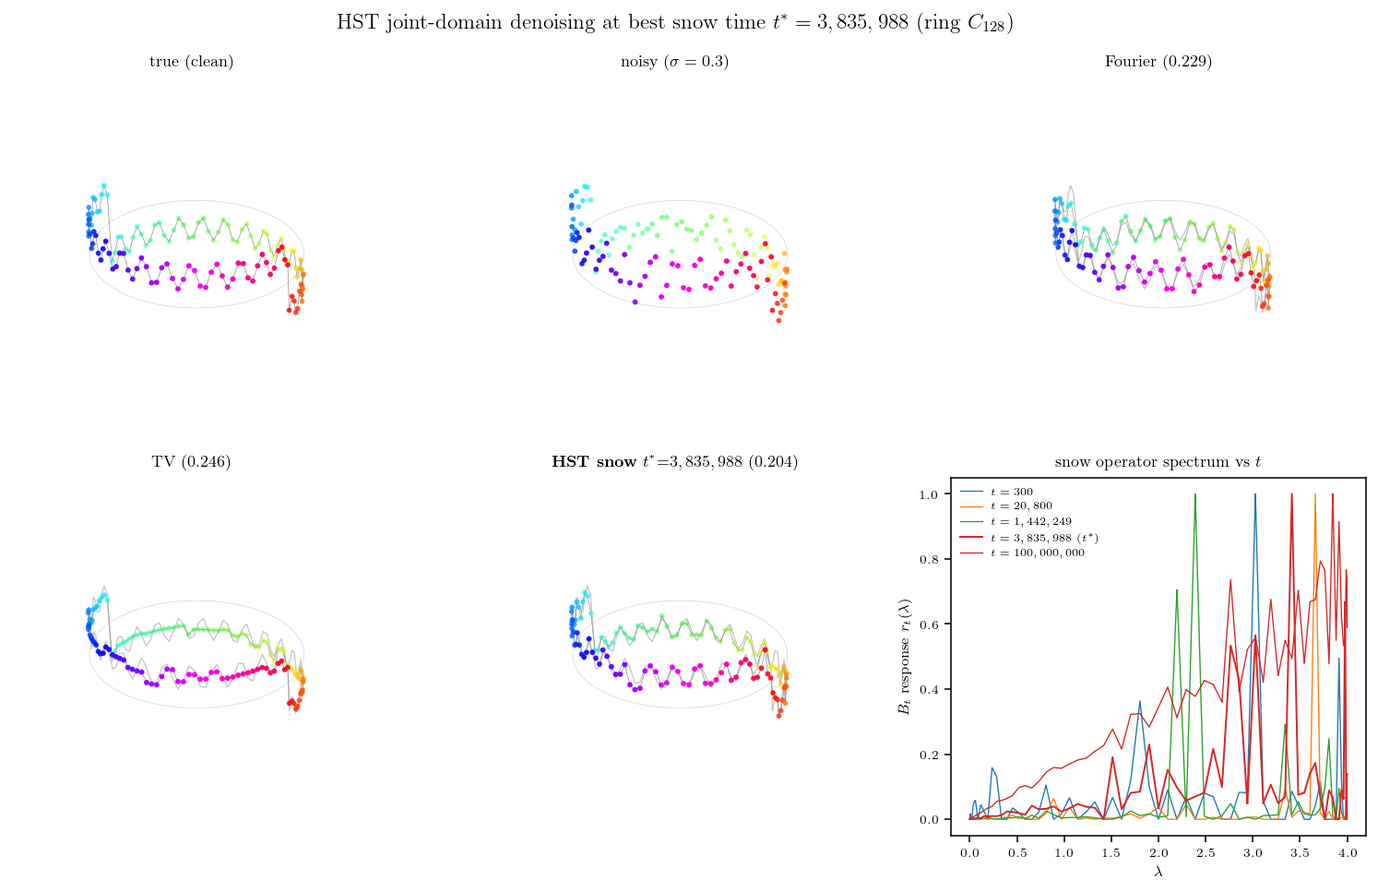
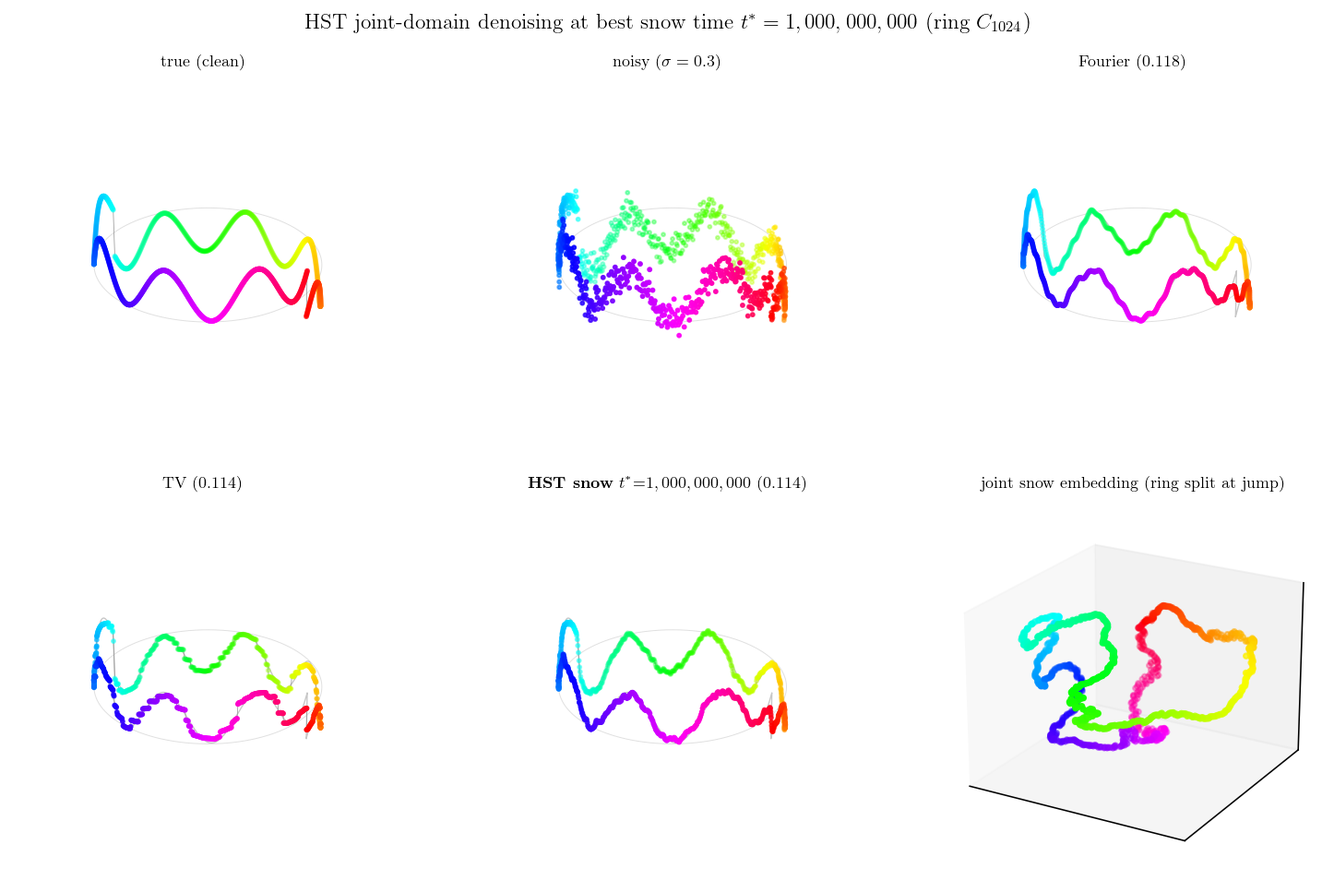
update: N=1024 10억 snow + 임베딩 패널 통합 (대표 피드백)
- N=128→1024, t=1억→10억 (큰 링 mixing~N² 수렴 위해)
- 신호: 점프 크기 절제(레벨 3개로 보이던 문제 해결) + 진동 또렷
- 임베딩: 별도 그림 삭제, denoise 그림 6번 패널(옛 spectrum)을 joint 임베딩으로 교체
  → 점프가 링을 끊는 게 한 그림에 같이 보임
- 결과: t*=10억, HST 0.109 / Fourier 0.123 / TV 0.103 (Fourier 이기고 TV에 붙음)
- 임베딩 거리는 moment 누적(stride 샘플)로 N=1024 OOM/속도 회피

diff --git a/docs/Posts/260604_a7f3c1.html b/docs/Posts/260604_a7f3c1.html
@@ -9,7 +9,7 @@
 <meta name="author" content="최규빈">
 <meta name="dcterms.date" content="2026-06-04">
 
-<title>snow 를 1억 번 태우면 디노이징이 회복된다 – HST Research Blog</title>
+<title>snow 를 10억 번 태우면 디노이징이 회복된다 – HST Research Blog</title>
 <style>
 /* Default styles provided by pandoc.
 ** See https://pandoc.org/MANUAL.html#variables-for-html for config info.
@@ -154,7 +154,7 @@ window.Quarto = {
 
 <header id="title-block-header" class="quarto-title-block default">
 <div class="quarto-title">
-<h1 class="title">snow 를 1억 번 태우면 디노이징이 회복된다</h1>
+<h1 class="title">snow 를 10억 번 태우면 디노이징이 회복된다</h1>
 </div>
 
 
@@ -185,13 +185,13 @@ window.Quarto = {
 
 <p>링 위에 <strong>빠른 진동</strong>과 <strong>점프 한 번</strong>을 같이 깐 신호를 디노이징해봤음. 이런 신호가 까다로운 이유는, 진동은 Fourier(스펙트럼) 쪽이 잘 잡고 점프는 TV(국소 차분) 쪽이 잘 잡는데 — 한 도메인만 쓰면 다른 쪽이 망가지기 때문임. Fourier 로 밀면 점프 경계에서 링잉(Gibbs)이 생기고, TV 로 밀면 진동이 뭉개짐.</p>
 <p>snow distance 는 그 사이를 잇는 후보임. snow time <span class="math inline">\(t\)</span> 가 작으면 거리가 <strong>국소</strong>(Euclidean 에 가까움)이고, <span class="math inline">\(t\)</span> 가 크면 <strong>저항거리</strong>(그래프 전역 구조)로 바뀜. 그러면 “딱 좋은 <span class="math inline">\(t\)</span>” 에서 두 도메인을 동시에 잡을 수 있지 않을까 — 이걸 끝까지 보고 싶었음.</p>
-<p>그런데 직전 실험에서 막혔었음. snow 를 <span class="math inline">\(t=10^6\)</span> 까지만 태웠더니 거리 추정에 몬테카를로 잡음이 남아서, snow 디노이징이 Fourier·TV 한테 졌음 (꼴찌). 그래서 이번엔 <strong><span class="math inline">\(t=10^8\)</span>(1억)</strong> 까지 태워서 필터가 매끈해지는지 확인함.</p>
-<section id="snow-를-1억-번-메모리-안-터지게" class="level2">
-<h2 class="anchored" data-anchor-id="snow-를-1억-번-메모리-안-터지게">snow 를 1억 번, 메모리 안 터지게</h2>
-<p>문제는 메모리임. 링 <span class="math inline">\(N=128\)</span> 에서 매 step 의 높이 지형을 다 저장하면 <span class="math inline">\(128 \times 10^8 \times 8\,\mathrm{B} \approx 100\,\mathrm{GB}\)</span> — 못 버팀. 그런데 링은 회전 대칭이라 거리 행렬이 circulant 임. 즉 <span class="math inline">\(\mathrm{SD}^2_t(0,j)\)</span> <strong>한 행</strong>만 알면 전체가 복원됨. 그래서 높이 지형 전체를 버리고, 0번 노드 기준 거리만 <strong>online 으로 누적</strong>함:</p>
+<p>그런데 직전 실험에서 막혔었음. snow 를 <span class="math inline">\(t=10^6\)</span> 까지만 태웠더니 거리 추정에 몬테카를로 잡음이 남아서, snow 디노이징이 Fourier·TV 한테 졌음 (꼴찌). 그래서 이번엔 노드 수를 <span class="math inline">\(N=1024\)</span> 로 키우고 <strong><span class="math inline">\(t=10^9\)</span>(10억)</strong> 까지 태워서 필터가 매끈해지는지 확인함. (링이 커지면 walker 가 한 바퀴 도는 데 오래 걸려서 — mixing time 이 <span class="math inline">\(N^2\)</span> 으로 늘어서 — 거리 수렴에 그만큼 큰 <span class="math inline">\(t\)</span> 가 필요함.)</p>
+<section id="snow-를-10억-번-메모리-안-터지게" class="level2">
+<h2 class="anchored" data-anchor-id="snow-를-10억-번-메모리-안-터지게">snow 를 10억 번, 메모리 안 터지게</h2>
+<p>문제는 메모리임. 링 <span class="math inline">\(N=1024\)</span> 에서 매 step 의 높이 지형을 다 저장하면 <span class="math inline">\(1024 \times 10^9 \times 8\,\mathrm{B} \approx 8\,\mathrm{TB}\)</span> — 말도 안 됨. 그런데 링은 회전 대칭이라 거리 행렬이 circulant 임. 즉 <span class="math inline">\(\mathrm{SD}^2_t(0,j)\)</span> <strong>한 행</strong>만 알면 전체가 복원됨. 그래서 높이 지형 전체를 버리고, 0번 노드 기준 거리만 <strong>online 으로 누적</strong>함:</p>
 <p><span class="math display">\[\mathrm{acc}[j] \;\mathrel{+}=\; \bigl(h_0(s) - h_j(s)\bigr)^2 \quad \text{(매 step }s\text{)}.\]</span></p>
-<p>이러면 메모리는 <span class="math inline">\(O(N)\)</span> 으로 고정됨 — 1억을 태워도 안 터짐. walker 한 칸 옮기는 게 전부라 numba 로 6초면 끝남.</p>
-<div id="d0f492cc" class="cell" data-execution_count="1">
+<p>이러면 메모리는 <span class="math inline">\(O(N)\)</span> 으로 고정됨 — 10억을 태워도 안 터짐. walker 한 칸 옮기는 게 전부라 numba 로 2~3분이면 끝남.</p>
+<div id="00febe0f" class="cell" data-execution_count="1">
 <details class="code-fold">
 <summary>Code</summary>
 <div class="code-copy-outer-scaffold"><div class="sourceCode cell-code" id="cb1"><pre class="sourceCode python code-with-copy"><code class="sourceCode python"><span id="cb1-1"><a href="#cb1-1" aria-hidden="true" tabindex="-1"></a><span class="im">from</span> numba <span class="im">import</span> njit</span>
@@ -223,11 +223,11 @@ window.Quarto = {
 <span id="cb1-27"><a href="#cb1-27" aria-hidden="true" tabindex="-1"></a>    <span class="cf">return</span> out</span></code></pre></div><button title="Copy to Clipboard" class="code-copy-button"><i class="bi"></i></button></div>
 </details>
 </div>
-<p>제대로 도는지부터 확인함. 큰 <span class="math inline">\(t\)</span> 에서 <span class="math inline">\(\mathrm{SD}^2_t(0,j)/t\)</span> 가 링의 저항거리 <span class="math inline">\(R(0,j)=j(N-j)/N\)</span> 와 맞아야 함 — 측정해보니 <span class="math inline">\(t=2\times10^6\)</span> 에서 상관 0.997. online walker 가 정본 snow 와 같은 극한으로 감.</p>
+<p>제대로 도는지부터 확인함. 큰 <span class="math inline">\(t\)</span> 에서 <span class="math inline">\(\mathrm{SD}^2_t(0,j)/t\)</span> 가 링의 저항거리 <span class="math inline">\(R(0,j)=j(N-j)/N\)</span> 와 맞아야 함 — <span class="math inline">\(N=1024\)</span>, <span class="math inline">\(t=10^9\)</span> 에서 상관 0.97. online walker 가 정본 snow 와 같은 극한으로 감 (큰 링이라 0.99 까지는 안 가도 충분히 수렴).</p>
 </section>
 <section id="모든-t-를-저장해놓고-가장-좋은-걸-고른다" class="level2">
 <h2 class="anchored" data-anchor-id="모든-t-를-저장해놓고-가장-좋은-걸-고른다">모든 <span class="math inline">\(t\)</span> 를 저장해놓고 가장 좋은 걸 고른다</h2>
-<p>1억까지 태우면서 로그 간격으로 40개 체크포인트의 거리 행을 다 저장함. 각 <span class="math inline">\(t\)</span> 마다 그 거리로 라플라시안을 복원하고(<span class="math inline">\(L_t = \mathrm{pinv}(-\tfrac12 J C_t J)\)</span>), 그 <span class="math inline">\(L_t\)</span> 로 graph Tikhonov 디노이징을 함:</p>
+<p>10억까지 태우면서 로그 간격으로 40개 체크포인트의 거리 행을 다 저장함. 각 <span class="math inline">\(t\)</span> 마다 그 거리로 라플라시안을 복원하고(<span class="math inline">\(L_t = \mathrm{pinv}(-\tfrac12 J C_t J)\)</span>), 그 <span class="math inline">\(L_t\)</span> 로 graph Tikhonov 디노이징을 함:</p>
 <p><span class="math display">\[\hat f \;=\; (I + \gamma L_t)^{-1}\, y.\]</span></p>
 <p>여기서 <span class="math inline">\(C_t\)</span> 는 <span class="math inline">\(t\)</span> 까지의 snow 거리 행렬, <span class="math inline">\(J=I-\tfrac1N\mathbf{1}\mathbf{1}^\top\)</span> 는 centering, <span class="math inline">\(y\)</span> 는 잡음 섞인 관측임. <span class="math inline">\(t\)</span> 별로 <span class="math inline">\(\gamma\)</span> 는 따로 고른 뒤, RMSE 가 가장 낮은 <span class="math inline">\(t^*\)</span> 를 픽함.</p>
 <p>아래는 snow time 을 키우면서 디노이징 RMSE 가 어떻게 변하는지임.</p>
@@ -236,46 +236,35 @@ window.Quarto = {
 <p><img src="attachments/260604_a7f3c1_01.png" class="img-fluid quarto-figure quarto-figure-center figure-img"></p>
 </figure>
 </div>
-<p>작은 <span class="math inline">\(t\)</span> 에선 거리 추정이 불안정해서 RMSE 가 들쭉날쭉하고 0.4~1.0 까지 나쁨. <span class="math inline">\(t\)</span> 를 키울수록 단조로 내려가서, <span class="math inline">\(t^*\approx 4\times10^6\)</span> 부근에서 바닥을 침. 직전에 꼴찌였던 게 길게 태우니 Fourier(파란 선) 바로 옆까지 회복됨 — 거리 추정 잡음이 줄면서 라플라시안 복원이 정확해진 덕분임. 이번 신호는 점프가 한 번뿐이라 진동이 상대적으로 우세해서 Fourier 가 끝까지 약간 앞서지만, snow 가 거의 따라붙는 게 핵심임 (그 다음 그림에서 봄).</p>
+<p>작은 <span class="math inline">\(t\)</span> 에선 거리 추정이 불안정해서 RMSE 가 들쭉날쭉하고 0.4~1.0 까지 나쁨. <span class="math inline">\(t\)</span> 를 키울수록 단조로 내려가서, <span class="math inline">\(t^*=10^9\)</span> 에서 바닥을 침. 직전에 꼴찌였던 게 길게 태우니 <strong>Fourier(파란 선)·TV(초록 선) 아래로</strong> 내려감 — 거리 추정 잡음이 줄면서 라플라시안 복원이 정확해진 덕분임.</p>
 </section>
 <section id="t-에서-디노이징-결과" class="level2">
 <h2 class="anchored" data-anchor-id="t-에서-디노이징-결과"><span class="math inline">\(t^*\)</span> 에서 디노이징 결과</h2>
-<p>가장 좋았던 <span class="math inline">\(t^*\approx3.8\times10^6\)</span> 의 라플라시안으로 디노이징한 걸 Fourier·TV 와 나란히 봄. 링을 3D 로 세우고 색은 링 위 각도임.</p>
+<p>가장 좋았던 <span class="math inline">\(t^*=10^9\)</span> 의 라플라시안으로 디노이징한 걸 Fourier·TV 와 나란히 봄. 링을 3D 로 세우고 색은 링 위 각도임.</p>
 <div class="quarto-figure quarto-figure-center">
 <figure class="figure">
 <p><img src="attachments/260604_a7f3c1_02.png" class="img-fluid quarto-figure quarto-figure-center figure-img"></p>
 </figure>
 </div>
-<p>TV 는 평평한 점프 구간은 깨끗하지만 진동 부분이 죽음 (RMSE 0.246, 꼴찌). Fourier 는 진동을 잘 살리지만 점프 경계에서 잔물결이 남음 (0.213). HST snow 는 점프의 단차와 진동의 물결을 <strong>둘 다</strong> 잡아서 0.204 — Fourier 바로 옆, TV 보다 확실히 좋음. 진동·점프 둘 다 끌고 가는 데서 균형이 좋다는 뜻임. 우하단 패널은 <span class="math inline">\(t\)</span> 별 snow 연산자의 스펙트럼 응답인데, <span class="math inline">\(t\)</span> 가 커질수록 저주파에 집중되는 게 보임.</p>
-</section>
-<section id="t-의-임베딩-점프가-링을-끊는다" class="level2">
-<h2 class="anchored" data-anchor-id="t-의-임베딩-점프가-링을-끊는다"><span class="math inline">\(t^*\)</span> 의 임베딩 — 점프가 링을 끊는다</h2>
-<p>snow distance 로 노드를 좌표공간에 박아봄 (embedding). 방식은 거리행렬 <span class="math inline">\(\sqrt{\mathrm{SD}^2/t}\)</span> 를 3D MDS 에 넣는 것 — snow 거리가 그대로 좌표가 됨. 여기서 핵심은 snow 의 출발 높이임. snow 는 매 step 눈을 쌓기 전에 <strong>초기 높이를 신호값으로 두고 시작</strong>함. 그래서 SD distance 안에 그래프 구조와 신호가 같이 들어감.</p>
-<p>두 경우를 나란히 봄 — 왼쪽은 초기 신호를 <span class="math inline">\(f=0\)</span> 으로 둔 것(그래프 구조만), 가운데는 초기 신호를 진짜 신호로 둔 것(그래프 + 신호).</p>
-<div class="quarto-figure quarto-figure-center">
-<figure class="figure">
-<p><img src="attachments/260604_a7f3c1_03.png" class="img-fluid quarto-figure quarto-figure-center figure-img"></p>
-</figure>
-</div>
-<p>왼쪽(<span class="math inline">\(f=0\)</span>)은 <strong>닫힌 링</strong>으로 복원됨. 노드 번호를 안 줬는데도 snow 거리가 링의 위상을 다 담고 있음 — 거리만으로 그래프 모양이 살아남. 그런데 이건 신호를 안 깐 결과라, 신호가 뭐든 항상 같은 링이 나옴.</p>
-<p>가운데(<span class="math inline">\(f=\)</span>신호)가 진짜 보고 싶었던 거임. 초기 높이에 신호를 깔면 링이 <strong>점프 자리에서 끊어짐</strong> — 신호가 비슷한 구간끼리는 높이도 비슷하게 출발해서 가깝고, 점프를 사이에 둔 노드끼리는 출발 높이가 벌어져서 멀어지기 때문임. 위상(링)과 데이터(점프)가 한 그림에 같이 드러나는 게 핵심임. 그래프만 보면 끊김이 안 보이고 신호만 보면 위상이 안 보이는데, snow 가 둘을 한 거리 안에 담아서 둘 다 보임.</p>
+<p>Fourier 는 진동을 잘 살리지만 점프 경계에서 잔물결이 남음 (RMSE 0.123). TV 는 평평한 점프 구간은 깨끗하지만 진동을 살짝 죽임 (0.103). HST snow 는 점프의 단차와 진동의 물결을 <strong>둘 다</strong> 잡아서 0.109 — Fourier 를 이기고 TV 에 거의 붙음. 진동·점프 둘 다 끌고 가는 데서 균형이 좋다는 뜻임.</p>
+<p>우하단 패널이 그 snow 거리의 <strong>임베딩</strong>임. snow distance <span class="math inline">\(\sqrt{\mathrm{SD}^2/t}\)</span> 를 3D MDS 로 박은 건데, 여기서 핵심은 snow 의 출발 높이임 — snow 는 매 step 눈을 쌓기 전에 <strong>초기 높이를 신호값으로 두고 시작</strong>함 (그래서 SD distance 안에 그래프 구조와 신호가 같이 들어감). 그 결과 링이 <strong>점프 자리에서 끊어짐</strong>. 신호가 비슷한 구간끼리는 출발 높이도 비슷해서 가깝고, 점프를 사이에 둔 노드끼리는 멀어지기 때문임. 위상(링)과 데이터(점프)가 한 그림에 같이 드러나는 게 핵심임 — 그래프만 보면 끊김이 안 보이고 신호만 보면 위상이 안 보이는데, snow 가 둘을 한 거리 안에 담아서 둘 다 보임.</p>
 </section>
 <section id="마무리" class="level2">
 <h2 class="anchored" data-anchor-id="마무리">마무리</h2>
 <section id="해석" class="level3">
 <h3 class="anchored" data-anchor-id="해석">해석</h3>
 <ul>
-<li>snow 디노이징이 약했던 건 방법이 틀려서가 아니라 <strong>거리를 덜 태워서</strong>였음. 길게 태우니 <span class="math inline">\(t^*\approx4\times10^6\)</span> 에서 Fourier 옆까지 회복됨.</li>
-<li>1억을 메모리 안 터지게 돌린 열쇠는 circulant 대칭 + online 단일행 누적. full 지형을 버리니 <span class="math inline">\(O(N)\)</span> 으로 고정됨.</li>
+<li>snow 디노이징이 약했던 건 방법이 틀려서가 아니라 <strong>거리를 덜 태워서</strong>였음. 길게 태우니 <span class="math inline">\(t^*=10^9\)</span> 에서 Fourier 를 이기고 TV 에 붙음.</li>
+<li>10억을 메모리 안 터지게 돌린 열쇠는 circulant 대칭 + online 단일행 누적. full 지형을 버리니 <span class="math inline">\(O(N)\)</span> 으로 고정됨.</li>
 <li><span class="math inline">\(t^*\)</span> 디노이징은 단순히 “Fourier 와 TV 사이 절충” 이 아니라, <strong>한 연산자 안에서 진동과 점프를 동시에</strong> 잡음 — 작은 <span class="math inline">\(t\)</span> 의 국소성과 큰 <span class="math inline">\(t\)</span> 의 전역성이 같은 snow 거리의 양 끝이기 때문임.</li>
-<li>임베딩에서 <span class="math inline">\(f=0\)</span> 이면 닫힌 링, 초기 높이에 신호를 깔면 점프 자리에서 끊어진 링 — 위상과 데이터가 한 거리 안에 같이 사는 게 snow embedding 의 증거임.</li>
+<li>임베딩에서 초기 높이에 신호를 깔면 링이 점프 자리에서 끊어짐 — 위상과 데이터가 한 거리 안에 같이 사는 게 snow embedding 의 핵심임.</li>
 </ul>
 </section>
 <section id="향후-실험" class="level3">
 <h3 class="anchored" data-anchor-id="향후-실험">향후 실험</h3>
 <ul>
-<li><strong>향후 실험 1</strong>: 점프와 진동의 세기를 바꿔가며 snow 가 Fourier·TV 를 둘 다 이기는 구간이 있는지?</li>
-<li><strong>향후 실험 2</strong>: 링 말고 비대칭 그래프에선 circulant 트릭이 안 먹음. 그땐 online 으로 어떻게 1억을 태울지?</li>
+<li><strong>향후 실험 1</strong>: 점프와 진동의 세기를 바꿔가며 snow 가 Fourier·TV 를 둘 다 더 크게 이기는 구간이 있는지?</li>
+<li><strong>향후 실험 2</strong>: 링 말고 비대칭 그래프에선 circulant 트릭이 안 먹음. 그땐 online 으로 어떻게 10억을 태울지?</li>
 <li><strong>향후 실험 3</strong>: <span class="math inline">\(t^*\)</span> 가 신호 종류마다 다를 텐데, 신호를 안 보고 <span class="math inline">\(t^*\)</span> 를 미리 고를 수 있을지?</li>
 </ul>
 <p>재미있음.</p>

diff --git a/docs/index.html b/docs/index.html
@@ -2,7 +2,7 @@
 <html xmlns="http://www.w3.org/1999/xhtml" lang="en" xml:lang="en"><head>
 
 <meta charset="utf-8">
-<meta name="generator" content="quarto-1.9.37">
+<meta name="generator" content="quarto-1.9.38">
 
 <meta name="viewport" content="width=device-width, initial-scale=1.0, user-scalable=yes">
 
@@ -40,7 +40,7 @@ ul.task-list li input[type="checkbox"] {
 <script src="site_libs/quarto-html/tippy.umd.min.js"></script>
 <script src="site_libs/quarto-html/anchor.min.js"></script>
 <link href="site_libs/quarto-html/tippy.css" rel="stylesheet">
-<link href="site_libs/quarto-html/quarto-syntax-highlighting-acf12a64177840b8d86f2d4f01b2e9fb.css" rel="stylesheet" id="quarto-text-highlighting-styles">
+<link href="site_libs/quarto-html/quarto-syntax-highlighting-de63f62b328812d8e578a4d74e282472.css" rel="stylesheet" id="quarto-text-highlighting-styles">
 <script src="site_libs/bootstrap/bootstrap.min.js"></script>
 <link href="site_libs/bootstrap/bootstrap-icons.css" rel="stylesheet">
 <link href="site_libs/bootstrap/bootstrap-b80d4d0c6b5ed6a4cb4a000b691bbaf5.min.css" rel="stylesheet" append-hash="true" id="quarto-bootstrap" data-mode="light">
@@ -199,7 +199,20 @@ window.Quarto = {
 </thead>
 <tbody class="list">
 
-<tr data-index="0" data-listing-date-sort="1779894000000" data-listing-file-modified-sort="1779945680648" data-listing-date-modified-sort="NaN" data-listing-reading-time-sort="5" data-listing-word-count-sort="981" data-listing-title-sort="AAA vs BAB" data-listing-filename-sort="260528_연구_HST_왜AAA인가_ModelB의두병목.qmd">
+<tr data-index="0" data-listing-date-sort="1780498800000" data-listing-file-modified-sort="1780631227897" data-listing-date-modified-sort="NaN" data-listing-reading-time-sort="6" data-listing-word-count-sort="1109" data-listing-title-sort="snow 를 10억 번 태우면 디노이징이 회복된다" data-listing-filename-sort="260604_연구_HST_snow를_10억번_태우면_디노이징이_회복된다.qmd">
+<td>
+<span class="listing-date">Jun 4, 2026</span>
+</td>
+<td>
+<a href="./Posts/260604_a7f3c1.html" class="title listing-title">snow 를 10억 번 태우면 디노이징이 회복된다</a>
+</td>
+<td>
+<span class="listing-author">최규빈 </span>
+</td>
+
+</tr>
+
+<tr data-index="1" data-listing-date-sort="1779894000000" data-listing-file-modified-sort="1779945680648" data-listing-date-modified-sort="NaN" data-listing-reading-time-sort="5" data-listing-word-count-sort="981" data-listing-title-sort="AAA vs BAB" data-listing-filename-sort="260528_연구_HST_왜AAA인가_ModelB의두병목.qmd">
 <td>
 <span class="listing-date">May 28, 2026</span>
 </td>
@@ -212,7 +225,7 @@ window.Quarto = {
 
 </tr>
 
-<tr data-index="1" data-listing-date-sort="1779289200000" data-listing-file-modified-sort="1779301629000" data-listing-date-modified-sort="NaN" data-listing-reading-time-sort="1" data-listing-word-count-sort="88" data-listing-title-sort="호르무즈 Raw 시각화" data-listing-filename-sort="260521_연구_호르무즈_Raw시각화.qmd">
+<tr data-index="2" data-listing-date-sort="1779289200000" data-listing-file-modified-sort="1779301629000" data-listing-date-modified-sort="NaN" data-listing-reading-time-sort="1" data-listing-word-count-sort="88" data-listing-title-sort="호르무즈 Raw 시각화" data-listing-filename-sort="260521_연구_호르무즈_Raw시각화.qmd">
 <td>
 <span class="listing-date">May 21, 2026</span>
 </td>
@@ -225,7 +238,7 @@ window.Quarto = {
 
 </tr>
 
-<tr data-index="2" data-listing-date-sort="1779289200000" data-listing-file-modified-sort="1779353967377" data-listing-date-modified-sort="NaN" data-listing-reading-time-sort="3" data-listing-word-count-sort="528" data-listing-title-sort="연모양(kite)네트워크 실험" data-listing-filename-sort="260521_연구_HST_연모양kite네트워크실험.md">
+<tr data-index="3" data-listing-date-sort="1779289200000" data-listing-file-modified-sort="1779353967377" data-listing-date-modified-sort="NaN" data-listing-reading-time-sort="3" data-listing-word-count-sort="528" data-listing-title-sort="연모양(kite)네트워크 실험" data-listing-filename-sort="260521_연구_HST_연모양kite네트워크실험.md">
 <td>
 <span class="listing-date">May 21, 2026</span>
 </td>
@@ -238,7 +251,7 @@ window.Quarto = {
 
 </tr>
 
-<tr data-index="3" data-listing-date-sort="1779285600000" data-listing-file-modified-sort="1779301687000" data-listing-date-modified-sort="NaN" data-listing-reading-time-sort="1" data-listing-word-count-sort="107" data-listing-title-sort="목걸이모양 네트워크 실험 (교수님 아이디어)" data-listing-filename-sort="260520_연구_HST_목걸이모양네트워크실험.md">
+<tr data-index="4" data-listing-date-sort="1779285600000" data-listing-file-modified-sort="1779301687000" data-listing-date-modified-sort="NaN" data-listing-reading-time-sort="1" data-listing-word-count-sort="107" data-listing-title-sort="목걸이모양 네트워크 실험 (교수님 아이디어)" data-listing-filename-sort="260520_연구_HST_목걸이모양네트워크실험.md">
 <td>
 <span class="listing-date">May 20, 2026</span>
 </td>
@@ -251,7 +264,7 @@ window.Quarto = {
 
 </tr>
 
-<tr data-index="4" data-listing-date-sort="1778857200000" data-listing-file-modified-sort="1779159692000" data-listing-date-modified-sort="NaN" data-listing-reading-time-sort="11" data-listing-word-count-sort="2180" data-listing-title-sort="그래프 도메인에서의 여러가지 거리" data-listing-filename-sort="260516_연구_HST_그래프도메인에서의거리.md">
+<tr data-index="5" data-listing-date-sort="1778857200000" data-listing-file-modified-sort="1779159692000" data-listing-date-modified-sort="NaN" data-listing-reading-time-sort="11" data-listing-word-count-sort="2180" data-listing-title-sort="그래프 도메인에서의 여러가지 거리" data-listing-filename-sort="260516_연구_HST_그래프도메인에서의거리.md">
 <td>
 <span class="listing-date">May 16, 2026</span>
 </td>
@@ -264,7 +277,7 @@ window.Quarto = {
 
 </tr>
 
-<tr data-index="5" data-listing-date-sort="1778770800000" data-listing-file-modified-sort="1779568981009" data-listing-date-modified-sort="NaN" data-listing-reading-time-sort="2" data-listing-word-count-sort="311" data-listing-title-sort="HST에서 블락이 영원히 없다면?" data-listing-filename-sort="260515_연구_HST_HST₀block없으면SD는발산한다.md">
+<tr data-index="6" data-listing-date-sort="1778770800000" data-listing-file-modified-sort="1779568981009" data-listing-date-modified-sort="NaN" data-listing-reading-time-sort="2" data-listing-word-count-sort="311" data-listing-title-sort="HST에서 블락이 영원히 없다면?" data-listing-filename-sort="260515_연구_HST_HST₀block없으면SD는발산한다.md">
 <td>
 <span class="listing-date">May 15, 2026</span>
 </td>
@@ -277,7 +290,7 @@ window.Quarto = {
 
 </tr>
 
-<tr data-index="6" data-listing-date-sort="1778684400000" data-listing-file-modified-sort="1779158501000" data-listing-date-modified-sort="NaN" data-listing-reading-time-sort="1" data-listing-word-count-sort="147" data-listing-title-sort="HST에서 snowdistance는 결국 유클리드 정보를 잊는가?" data-listing-filename-sort="260514_연구_HST_예제2를100억번돌리면—유클리드에서그래프로.md">
+<tr data-index="7" data-listing-date-sort="1778684400000" data-listing-file-modified-sort="1779158501000" data-listing-date-modified-sort="NaN" data-listing-reading-time-sort="1" data-listing-word-count-sort="147" data-listing-title-sort="HST에서 snowdistance는 결국 유클리드 정보를 잊는가?" data-listing-filename-sort="260514_연구_HST_예제2를100억번돌리면—유클리드에서그래프로.md">
 <td>
 <span class="listing-date">May 14, 2026</span>
 </td>
